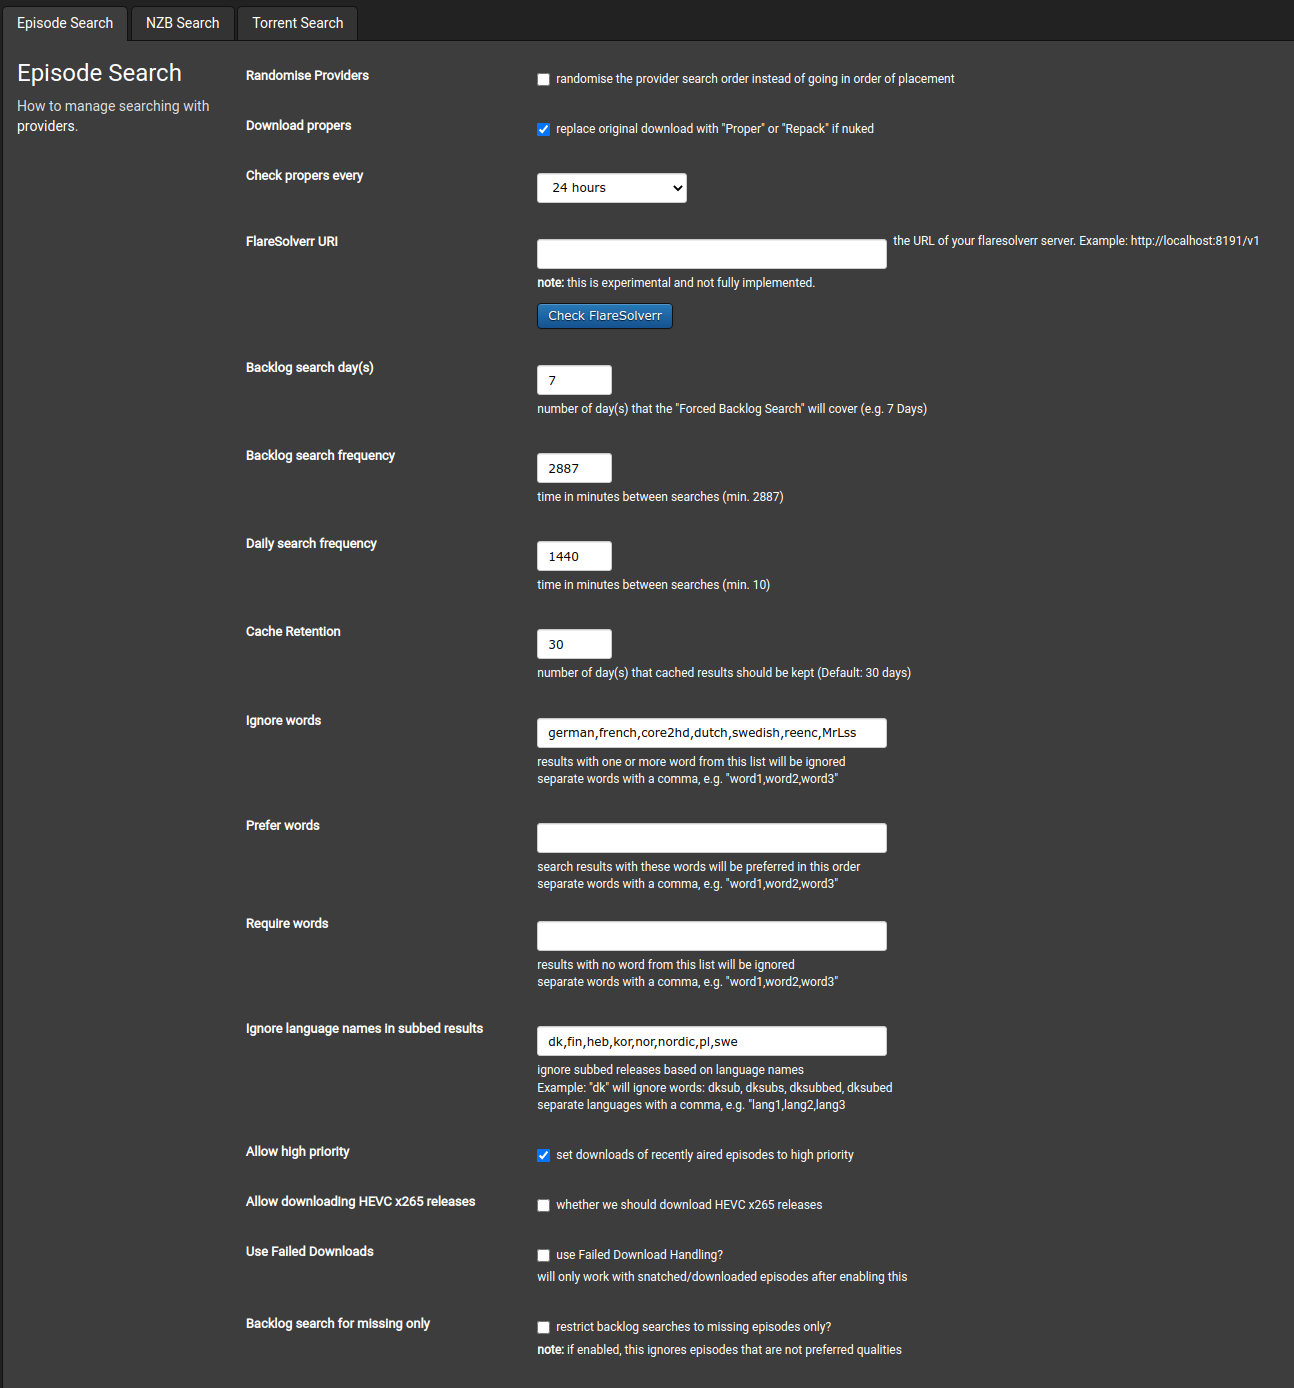
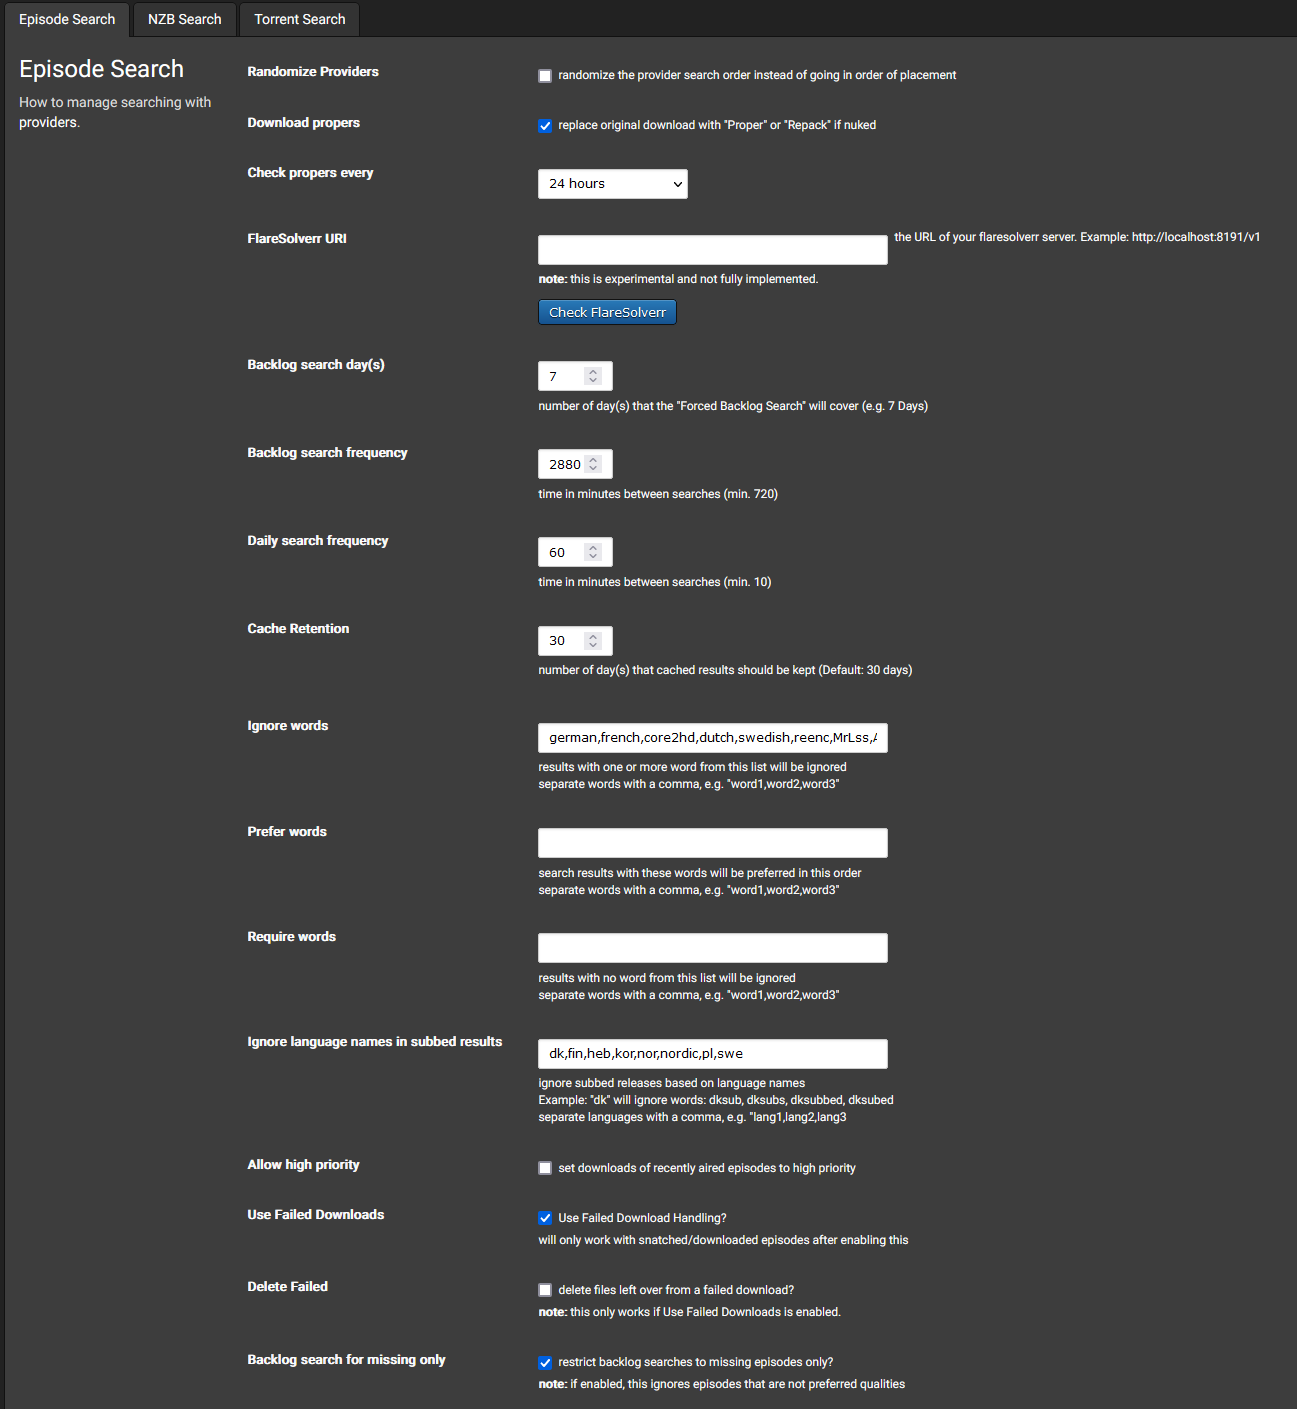
image plus

diff --git a/Settings-explained.md b/Settings-explained.md
@@ -231,6 +231,8 @@ Key resource links should you wish to chat or fix something that's gone wrong.
   This sets downloads of recently aired episodes to high priority. So those get priority over already aired episodes. Some download clients like SABnzb allow sending with high priority to prioritize downloads.
 - `Use Failed Downloads:`  
   Lets you enable failed downloads. This will also allow adding bad/failed torrents/nzb to the failed.db so that they aren't downloaded again.
+-  `Delete Failed:`  
+  Lets you enable automatic delete of left of files of Failed Downloads. Only visible if above "Use Failed Downloads" is selected.
 - `Backlog search for missing only:`  
   This restricts backlog searches to missing episodes only, it also ignores episodes that are already downloaded and not a preferred quality.
 
